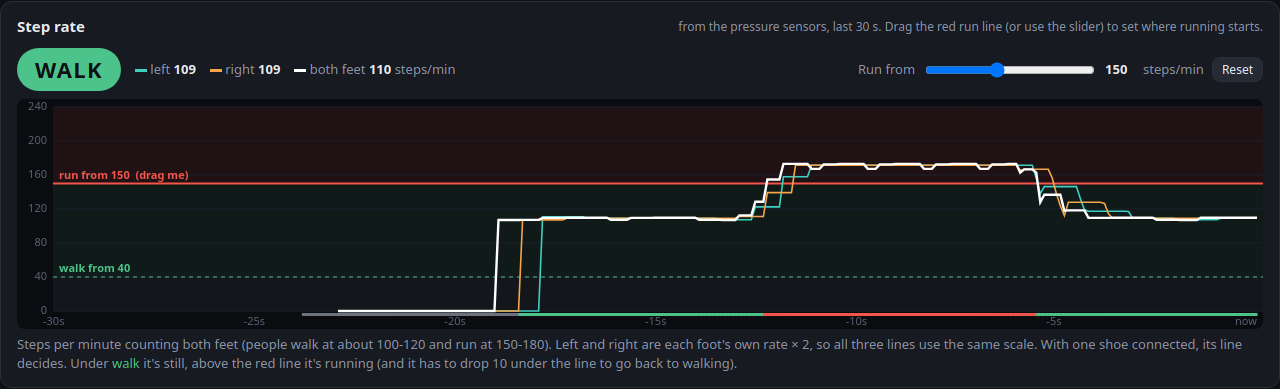
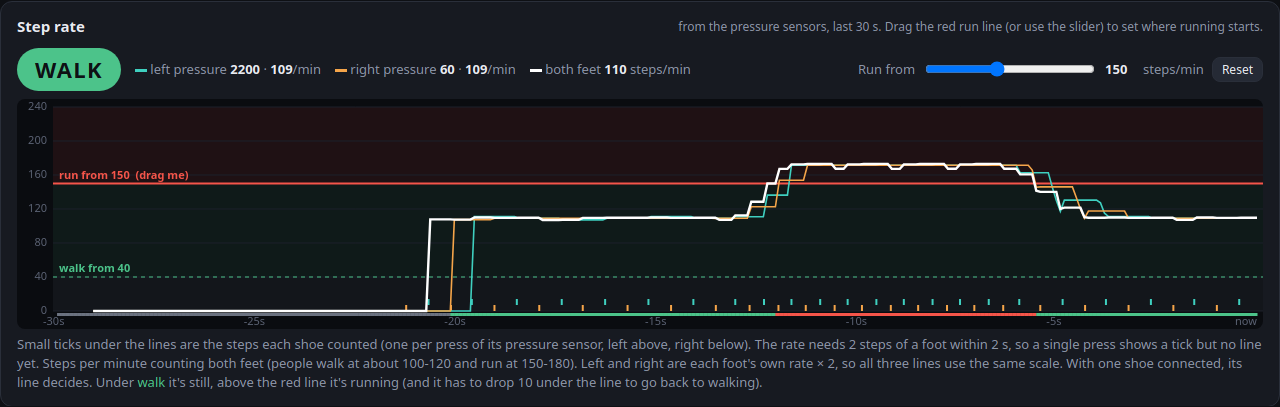
Show raw FSR pressure live in the sampler; fix shoe step levels missing presses after a hard squeeze or with a preloaded sensor; log every counted step

diff --git a/sampler/index.html b/sampler/index.html
@@ -85,6 +85,13 @@ label.chk{display:block;margin:8px 0}
 .rateCtl{display:flex;align-items:center;gap:8px;margin-left:auto;font-size:13px;color:var(--mute)}
 .rateCtl input[type=range]{width:170px}
 canvas#rateCv{width:100%;height:230px;background:#0a0c10;border-radius:8px;display:block;touch-action:none}
+.pressTop{display:grid;grid-template-columns:1fr 1fr;gap:14px;margin-bottom:8px}
+@media(max-width:700px){.pressTop{grid-template-columns:1fr}}
+.pressFoot{display:flex;align-items:center;gap:12px;background:#0f1217;border:1px solid var(--line);border-radius:10px;padding:8px 12px}
+.pressFoot .big{font-size:30px;font-weight:750;font-variant-numeric:tabular-nums;min-width:78px;text-align:right}
+.pressFoot .bar{flex:1;height:16px}
+.pressFoot .sub{font-size:12px;color:var(--mute);font-variant-numeric:tabular-nums;white-space:nowrap}
+canvas#pressCv{width:100%;height:200px;background:#0a0c10;border-radius:8px;display:block}
 /* monitor */
 .monfoot .comps{display:grid;grid-template-columns:1fr 1fr;gap:10px}
 @media(max-width:600px){.monfoot .comps{grid-template-columns:1fr}}
@@ -131,20 +138,42 @@ pre.log{background:#07080b;border:1px solid var(--line);border-radius:8px;height
     </div>
   </section>
 
+  <section class="panel full" id="pressPanel">
+    <h2>Pressure <span class="tag">raw force from each shoe's sensor (0-4095), every packet, last 10 s. Not tied to steps.</span></h2>
+    <div class="pressTop">
+      <div class="pressFoot" id="pressL">
+        <span style="color:var(--L);font-weight:700;width:44px">Left</span>
+        <span class="big" id="pressNL">-</span>
+        <div class="bar"><i id="pressBarL" style="--c:var(--L)"></i></div>
+        <span class="lamp" id="pressDownL" title="foot down (the shoe's step detector)"></span>
+        <span class="sub" id="pressSubL">not connected</span>
+      </div>
+      <div class="pressFoot" id="pressR">
+        <span style="color:var(--R);font-weight:700;width:44px">Right</span>
+        <span class="big" id="pressNR">-</span>
+        <div class="bar"><i id="pressBarR" style="--c:var(--R)"></i></div>
+        <span class="lamp" id="pressDownR" title="foot down (the shoe's step detector)"></span>
+        <span class="sub" id="pressSubR">not connected</span>
+      </div>
+    </div>
+    <canvas id="pressCv"></canvas>
+    <p class="help" style="margin:6px 0 0">The number and the trace are the sensor reading as it arrives (25 times a second), so light and hard presses and how long you hold them all show. Shaded = the shoe counts the foot as down; a tick on the top edge = a counted step. Under each number: the time between the last two counted presses of that foot, and the step count.</p>
+  </section>
+
   <section class="panel full" id="ratePanel">
     <h2>Step rate <span class="tag">from the pressure sensors, last 30 s. Drag the red run line (or use the slider) to set where running starts.</span></h2>
     <div class="rateTop">
       <span class="badge big s0" id="rateState">STILL</span>
       <div class="rateNums">
-        <span><i style="display:inline-block;width:12px;height:3px;background:var(--L);vertical-align:middle"></i> left <b id="rateL">0</b></span>
-        <span><i style="display:inline-block;width:12px;height:3px;background:var(--R);vertical-align:middle"></i> right <b id="rateR">0</b></span>
+        <span><i style="display:inline-block;width:12px;height:3px;background:var(--L);vertical-align:middle"></i> left pressure <b id="ratePL">-</b> &middot; <b id="rateL">0</b>/min</span>
+        <span><i style="display:inline-block;width:12px;height:3px;background:var(--R);vertical-align:middle"></i> right pressure <b id="ratePR">-</b> &middot; <b id="rateR">0</b>/min</span>
         <span><i style="display:inline-block;width:12px;height:3px;background:#fff;vertical-align:middle"></i> both feet <b id="rateB">0</b> steps/min</span>
       </div>
       <div class="rateCtl">Run from <input type="range" id="runSpm" min="100" max="220" step="1"> <b id="runSpmN" style="color:var(--text);min-width:30px"></b> steps/min
         <button class="small" id="runSpmReset" title="back to 150">Reset</button></div>
     </div>
     <canvas id="rateCv"></canvas>
-    <p class="help" style="margin:6px 0 0">Steps per minute counting both feet (people walk at about 100-120 and run at 150-180). Left and right are each foot's own rate &times; 2, so all three lines use the same scale. With one shoe connected, its line decides. Under <span style="color:var(--walk)">walk</span> it's still, above the red line it's running (and it has to drop <span id="runHyst"></span> under the line to go back to walking).</p>
+    <p class="help" style="margin:6px 0 0">Small ticks under the lines are the steps each shoe counted (one per press of its pressure sensor, left above, right below). The rate needs 2 steps of a foot within 2 s, so a single press shows a tick but no line yet. Steps per minute counting both feet (people walk at about 100-120 and run at 150-180). Left and right are each foot's own rate &times; 2, so all three lines use the same scale. With one shoe connected, its line decides. Under <span style="color:var(--walk)">walk</span> it's still, above the red line it's running (and it has to drop <span id="runHyst"></span> under the line to go back to walking).</p>
   </section>
 
   <section class="panel full" id="slotsPanel">
@@ -262,6 +291,10 @@ function ingest(id, d, src, rawLine){
   const fd = det.feet[id];
   if (fd.d && ((d.events - fd.events + 256) % 256)) logEvent(id, `${FOOT_NAME[id]} shoe says: ${EVENT_NAMES[d.event] || d.event}`);
   if (fd.d && ((d.spins - fd.spins + 256) % 256)) logEvent(id, `${FOOT_NAME[id]} shoe says: 360 SPIN`);
+  if (fd.d && det.isLive(id, now) && ((d.steps - fd.steps + 65536) % 65536)){
+    stepMarks.push({t:now, id});
+    logEvent(id, `${FOOT_NAME[id]} step #${d.steps} (pressure ${d.fsr}` + (d.stepMs ? `, ${d.stepMs} ms after this foot's last step = ${Math.round(120000 / d.stepMs)} steps/min on the graph)` : ', first step after a pause)'));
+  }
   det.ingest(id, d, now);
 }
 
@@ -473,6 +506,7 @@ function buildPlay(){
       <h2><span class="dot" id="pdot${id}"></span> ${FOOT_NAME[id]} shoe <span class="tag" id="plink${id}">not connected</span></h2>
       <div class="footrow"><span class="badge big" id="pstate${id}">-</span><span class="badge" id="ppose${id}" style="background:#3a404d;color:var(--text)">-</span></div>
       <div class="kv" style="margin-top:8px">
+        <span>Pressure (raw, 0-4095)</span><b><span class="bar" style="display:inline-block;width:90px;vertical-align:middle;margin-right:6px"><i id="pfsrBar${id}" style="--c:var(--${id})"></i></span><span id="pfsr${id}">-</span></b>
         <span>Foot down</span><b><span class="lamp" id="pdown${id}"></span></b>
         <span>Tilt (pitch / roll)</span><b id="ptilt${id}">-</b>
         <span>Last one-foot event</span><b id="pev${id}">-</b>
@@ -527,6 +561,8 @@ function drawPlay(){
     $('plink'+id).textContent = live ? `${f.src}, ${f.rate}/s` : (f.lastLive ? 'stopped sending' : 'not connected');
     const pb = $('pstate'+id); pb.textContent = live ? (GAIT_NAMES[d.state] || '?') : '-'; pb.className = 'badge big' + (live ? ' s' + d.state : '');
     $('ppose'+id).textContent = live ? (POSE_NAMES[d.pose] || '?') : '-';
+    $('pfsr'+id).textContent = live ? d.fsr : '-';
+    $('pfsrBar'+id).style.width = (live ? clamp(d.fsr / 4095, 0, 1) * 100 : 0) + '%';
     $('pdown'+id).className = 'lamp' + (live && (d.flags & 2) ? ' on' : '');
     $('ptilt'+id).textContent = live ? `${d.pitch}° / ${d.roll}°` : '-';
     $('pev'+id).textContent = live && d.events ? `${EVENT_NAMES[d.event] || d.event} (#${d.events})` : '-';
@@ -826,9 +862,44 @@ async function sendCmd(text){
   for (const u of targets){ try{ await u.writer.write(text + '\n'); }catch(e){ logApp('could not send: ' + e.message); } }
 }
 
+// ===================== raw pressure =====================
+const PRESS_MS = 10000;
+function drawPressure(now){
+  for (const id of ['L','R']){
+    const f = feet[id], d = f.d, live = isLive(f, now);
+    $('pressN'+id).textContent = live ? d.fsr : '-';
+    $('rateP'+id).textContent = live ? d.fsr : '-';
+    $('pressBar'+id).style.width = (live ? clamp(d.fsr / 4095, 0, 1) * 100 : 0) + '%';
+    $('pressDown'+id).className = 'lamp' + (live && (d.flags & 2) ? ' on' : '');
+    $('pressSub'+id).textContent = !live ? (f.lastLive ? 'stopped sending' : 'not connected')
+      : `${d.stepMs ? d.stepMs + ' ms between presses' : 'no press interval yet'} · ${d.steps} steps`;
+  }
+  const cv = $('pressCv'), w = cv.clientWidth, h = cv.clientHeight; if (!w) return;
+  const dpr = window.devicePixelRatio || 1;
+  if (cv.width !== Math.round(w*dpr) || cv.height !== Math.round(h*dpr)){ cv.width = Math.round(w*dpr); cv.height = Math.round(h*dpr); }
+  const c = cv.getContext('2d'); c.setTransform(dpr, 0, 0, dpr, 0, 0); c.clearRect(0, 0, w, h);
+  const L = 40, top = 8, bot = h - 16;
+  const x = t => L + (1 - (now - t) / PRESS_MS) * (w - L - 6), y = v => bot - clamp(v / 4095, 0, 1) * (bot - top);
+  c.font = '11px system-ui'; c.textBaseline = 'middle'; c.textAlign = 'right';
+  for (let v = 0; v <= 4000; v += 1000){ c.strokeStyle = '#1d212a'; c.lineWidth = 1; c.beginPath(); c.moveTo(L, y(v)); c.lineTo(w, y(v)); c.stroke(); c.fillStyle = '#5b6273'; c.fillText(v, L - 6, y(v)); }
+  c.textAlign = 'left'; c.textBaseline = 'alphabetic';
+  for (let s = 10; s >= 0; s -= 2) c.fillText(s ? `-${s}s` : 'now', Math.min(x(now - s*1000) - (s ? 10 : 22), w - 26), h - 3);
+  for (const id of ['L','R']){
+    const hist = feet[id].hist.filter(p => p.t >= now - PRESS_MS), col = id === 'L' ? '#3fd0c0' : '#f5a54a';
+    c.fillStyle = id === 'L' ? 'rgba(63,208,192,.07)' : 'rgba(245,165,74,.07)';
+    for (let i = 1; i < hist.length; i++) if (hist[i].down) c.fillRect(x(hist[i-1].t), top, x(hist[i].t) - x(hist[i-1].t) + 0.5, bot - top);
+    c.strokeStyle = col; c.lineWidth = 1.8; c.beginPath();
+    hist.forEach((p, i) => (i && p.t - hist[i-1].t < 300) ? c.lineTo(x(p.t), y(p.fsr)) : c.moveTo(x(p.t), y(p.fsr)));
+    c.stroke();
+    c.fillStyle = col;
+    for (const m of stepMarks) if (m.id === id && m.t >= now - PRESS_MS) c.fillRect(x(m.t) - 1, id === 'L' ? top : top + 7, 2, 6);
+  }
+}
+
 // ===================== step-rate graph =====================
 const RATE_MS = 30000, RATE_TOP = 240, RUN_DEFAULT = Moves.TUNING.RUN_SPM;
 const rateHist = [];   // {t, L, R, both, run, g} every 100 ms
+const stepMarks = [];  // {t, id} every step a shoe counted
 function setRunSpm(v, keep = true){
   v = Math.round(clamp(v, 100, 220));
   det.T.RUN_SPM = v; $('runSpm').value = v; $('runSpmN').textContent = v;
@@ -838,6 +909,7 @@ function sampleRates(){
   const now = performance.now(), r = det.rates(now), g = det.gait(now);
   rateHist.push({t:now, L:r.live.L ? r.L : null, R:r.live.R ? r.R : null, both:(r.live.L || r.live.R) ? r.both : null, run:det.T.RUN_SPM, g});
   while (rateHist.length && rateHist[0].t < now - RATE_MS) rateHist.shift();
+  while (stepMarks.length && stepMarks[0].t < now - RATE_MS) stepMarks.shift();
   $('rateL').textContent = r.live.L ? Math.round(r.L) : '-';
   $('rateR').textContent = r.live.R ? Math.round(r.R) : '-';
   $('rateB').textContent = (r.live.L || r.live.R) ? Math.round(r.both) : '-';
@@ -873,6 +945,8 @@ function drawRates(now){
   // state strip along the bottom
   for (let i = 1; i < rateHist.length; i++){ const a = rateHist[i-1], b = rateHist[i];
     c.fillStyle = {still:'#6b7280', walk:'#4cc38a', run:'#f5554a'}[b.g]; c.fillRect(x(a.t), h - 16, x(b.t) - x(a.t) + 0.5, 3); }
+  // a tick for every counted step: left on the upper row, right on the lower
+  for (const m of stepMarks){ c.fillStyle = m.id === 'L' ? '#3fd0c0' : '#f5a54a'; c.fillRect(x(m.t) - 1, m.id === 'L' ? h - 30 : h - 24, 2, 6); }
   // the three rate lines
   for (const [k, col, wid] of [['L', '#3fd0c0', 1.6], ['R', '#f5a54a', 1.6], ['both', '#ffffff', 2.4]]){
     c.strokeStyle = col; c.lineWidth = wid; c.beginPath(); let pen = false;
@@ -914,7 +988,7 @@ setInterval(() => {
 }, 25);
 setInterval(drawMonitor, 100);
 setInterval(sampleRates, 100);
-(function frame(){ drawPlay(); requestAnimationFrame(frame); })();
+(function frame(){ drawPlay(); if (tab === 'play') drawPressure(performance.now()); requestAnimationFrame(frame); })();
 window.shoeApp = {feet, det, rateHist, setRunSpm, ingest, decodePacket, parseCsv, slots, slotForFileName, get playing(){ return playing && playing.key; }, get started(){ return started; }};
 </script>
 </body>

diff --git a/xiao_foot/motion.h b/xiao_foot/motion.h
@@ -64,16 +64,26 @@ public:
   uint32_t upSinceMs = 0;     // when the foot last lifted (0 = never)
   uint16_t lastAirMs = 0;     // how long the foot was up before the last counted step
   float peak = 0;             // learned "full press" level
+  float rest = 0;             // learned "foot up" level (an insole or a resting finger can keep it above 0)
   float pressAt = FSR_MIN_PRESS, releaseAt = FSR_MIN_PRESS * 0.6f;
 
   void beginSample() { stepped = false; }
 
   void updateFsr(uint32_t now, uint16_t fsr) {
-    // learn the press level: jump up to new highs, slowly forget old ones (~30 s)
-    peak = (fsr > peak) ? fsr : peak * 0.9998f;
-    pressAt = fmaxf(FSR_MIN_PRESS, FSR_PRESS_FRAC * peak);
-    releaseAt = fmaxf(FSR_MIN_PRESS * 0.6f, FSR_RELEASE_FRAC * peak);
-    touching = fsr > FSR_MIN_PRESS;
+    float dt = lastFsrMs ? (float)(now - lastFsrMs) : 10.0f;
+    lastFsrMs = now;
+    // full press: jump up to new highs, forget old ones (half gone after FSR_PEAK_HALF_MS)
+    peak = fmaxf((float)fsr, peak * powf(0.5f, dt / FSR_PEAK_HALF_MS));
+    // foot up level: drops to any lower reading, and slowly rises to what the sensor reads
+    // with the foot up. While down it can only rise to half the reading, so standing stays "down".
+    float restTarget = down ? fsr * 0.5f : fsr;
+    if (fsr < rest) rest = fsr;
+    else if (restTarget > rest) rest += (restTarget - rest) * fminf(1.0f, dt / FSR_REST_RISE_MS);
+    // press and release are measured from the rest level, so a preloaded sensor still steps
+    float span = fmaxf(peak - rest, (float)FSR_MIN_SPAN);
+    pressAt = fmaxf(FSR_MIN_PRESS, rest + FSR_PRESS_FRAC * span);
+    releaseAt = fmaxf(FSR_MIN_PRESS * 0.6f, rest + FSR_RELEASE_FRAC * span);
+    touching = fsr > fmaxf(FSR_MIN_PRESS, rest + FSR_MIN_PRESS);
     if (!down && fsr > pressAt) press(now);
     else if (down && fsr < releaseAt) lift(now);
   }
@@ -89,6 +99,7 @@ public:
 
 private:
   uint16_t prevInterval = 0;
+  uint32_t lastFsrMs = 0;
 
   void press(uint32_t now) {
     down = true;

diff --git a/tests/logic_test/logic_test.cpp b/tests/logic_test/logic_test.cpp
@@ -183,6 +183,29 @@ int main() {
     }
     CHECK(s.counts[EVENT_TOE_TAP] == 0, "walking foot slaps are not toe taps"); }
 
+  printf("Pressure sensor: press and release levels\n");
+  { // presses of `press` (300 ms) with `rest` between (400 ms), after one squeeze to `hard`
+    auto presses = [](uint16_t rest, uint16_t hard, uint16_t press) {
+      StepDetector s; uint32_t t = 0;
+      auto feed = [&](uint16_t v, int ms) { for (int i = 0; i < ms; i += 10) { t += 10; s.beginSample(); s.updateFsr(t, v); } };
+      feed(rest, 2000); feed(hard, 300); feed(rest, 700);
+      uint16_t c = s.count;
+      for (int i = 0; i < 10; i++) { feed(press, 300); feed(rest, 400); }
+      printf("        rest %u, squeeze %u, 10 presses of %u: %u counted (press at %.0f, release at %.0f)\n", rest, hard, press, s.count - c, s.pressAt, s.releaseAt);
+      return s.count - c;
+    };
+    CHECK(presses(30, 4095, 1200) >= 8, "one hard squeeze doesn't hide lighter presses for long");
+    CHECK(presses(900, 4095, 3000) == 10, "a sensor that never unloads (finger resting, 900) still counts presses");
+    CHECK(presses(1000, 4095, 2500) == 10, "insole preload (1000) still counts steps");
+    StepDetector s; uint32_t t = 0; bool allDown = true;
+    auto feed = [&](uint16_t v, int ms) { for (int i = 0; i < ms; i += 10) { t += 10; s.beginSample(); s.updateFsr(t, v); } };
+    feed(40, 1000); feed(2000, 300);
+    uint16_t c = s.count;
+    for (int i = 0; i < 6000; i++) { t += 10; s.beginSample(); s.updateFsr(t, 2000 + ((i / 37) % 2 ? 150 : -150)); allDown &= s.down; }
+    CHECK(allDown && s.count == c, "standing 60 s with weight shifts: stays down, no extra steps");
+    feed(40, 300);
+    CHECK(!s.down, "then lifting the foot: up"); }
+
   printf("Shuffle / slide\n");
   { Shoe s; s.still(2000, 600);
     for (int k = 0; k < 8; k++) {   // slide forward and back, sole touching lightly

diff --git a/xiao_foot/config.h b/xiao_foot/config.h
@@ -33,11 +33,15 @@
 #define MPU_ADDR    0x68       // 0x69 if the GY-521 AD0 pin is wired to VCC
 
 // ---------- Pressure sensor (0..4095, FSR from 3.3 V with 10k to GND) ----------
-// The shoe learns how hard this person presses. "Foot down" is when pressure
-// goes above FSR_PRESS_FRAC of that, and "foot up" is below FSR_RELEASE_FRAC.
+// The shoe learns how hard this person presses (peak) and what the sensor reads
+// with the foot up (rest). "Foot down" is above FSR_PRESS_FRAC of the way from
+// rest to peak, and "foot up" is below FSR_RELEASE_FRAC. Key 1 shows both lines.
 #define FSR_MIN_PRESS     150  // anything below this is never "foot down" (noise)
 #define FSR_PRESS_FRAC    0.40f
 #define FSR_RELEASE_FRAC  0.20f
+#define FSR_MIN_SPAN      400  // rest to peak is taken as at least this, so noise is never a step
+#define FSR_PEAK_HALF_MS  3000 // one hard squeeze is half forgotten after this (lighter steps count again)
+#define FSR_REST_RISE_MS  2000 // how fast the rest level follows a sensor that stays pressed with the foot up
 
 // ---------- Steps from the gyro board (only when STEPS_FROM_FSR is 0) ----------
 #define ACCEL_STEP_G      1.6f // a hit harder than this (in g) is a step

diff --git a/README.md b/README.md
@@ -36,6 +36,10 @@ Every slot starts **empty**. Drop an audio file on a slot, click **Choose**, or 
 
 ![Monitor window](docs/monitor.png)
 
+**The pressure panel** (Play view): raw force from each shoe's sensor as it arrives, here while walking:
+
+![Pressure panel](docs/pressure-panel.png)
+
 **The step-rate graph** (Play view): steps per minute from each shoe's pressure sensor over the last 30 s, walking, then running, then walking again:
 
 ![Step-rate graph](docs/walk-run-graph.png)
@@ -115,6 +119,14 @@ cd sampler
 python3 -m http.server 8000
 ```
 Then go to `http://localhost:8000` in Chrome. Press **Start sound**, then **Connect Left shoe** (`MusicShoe-L`) and **Connect Right shoe** (`MusicShoe-R`).
+
+### The pressure panel: raw force from each shoe
+
+The **Pressure** panel (Play view, above the step-rate graph) shows each shoe's sensor reading as it arrives, 25 times a second: a big number (0-4095) and a bar per foot, plus a 10 s trace. It is not tied to steps, so holding, light presses and hard presses all show. Shaded areas are where the shoe counts the foot as down, and ticks on the top edge are counted steps. Under each number: the time between that foot's last two counted presses and its step count. The same raw number is next to "left / right pressure" on the step-rate graph and in each shoe's box lower down.
+
+Rough readings with the FSR wired from 3.3 V to D0 and 10k to GND: nothing on it 0-100, a light finger touch a few hundred, a firm press 1500-3000, a hard squeeze or standing on it 3500-4095.
+
+The Monitor log (set to **movements only**) has a line for every counted step, e.g. `>>> Left step #12 (pressure 2200, 1080 ms after this foot's last step = 111 steps/min on the graph)`. A press that moves the number but adds no line didn't cross the shoe's press level: press key `1` on the shoe to see `fsr`, `pressAt`, `releaseAt` and `rest`.
 
 ### The step-rate graph: setting walk vs run
 
@@ -251,7 +263,7 @@ One-foot numbers are in **`xiao_foot/config.h`** (upload again after changing th
 |---|---|
 | Fast walking counts as running | Drag the red line on the **Step rate** graph up (or `RUN_SPM` in the app's `TUNING`). The shoe's own `RUN_STEP_MS` only affects what key `5` and the Monitor show |
 | Running isn't detected | Drag the red line down. Kids and short legs step faster, so they may need 160-170 |
-| Steps are missed, or extra steps appear | Watch key `1`. Raise or lower `FSR_PRESS_FRAC` / `FSR_MIN_PRESS` |
+| Steps are missed, or extra steps appear | Watch key `1` (`fsr` against `pressAt` / `releaseAt` / `rest`). Raise or lower `FSR_PRESS_FRAC` / `FSR_MIN_PRESS`. Light steps missed after a hard one: lower `FSR_PEAK_HALF_MS` |
 | Spins don't count | Watch key `4`. Lower `SPIN_RATE_DPS` or `SPIN_DEG` |
 | Turning around counts as a spin | Raise `SPIN_DEG` (keep it above 270) |
 | Still takes too long / too short | `STILL_MS` (shoe) and `STOP_MS` (app) |
